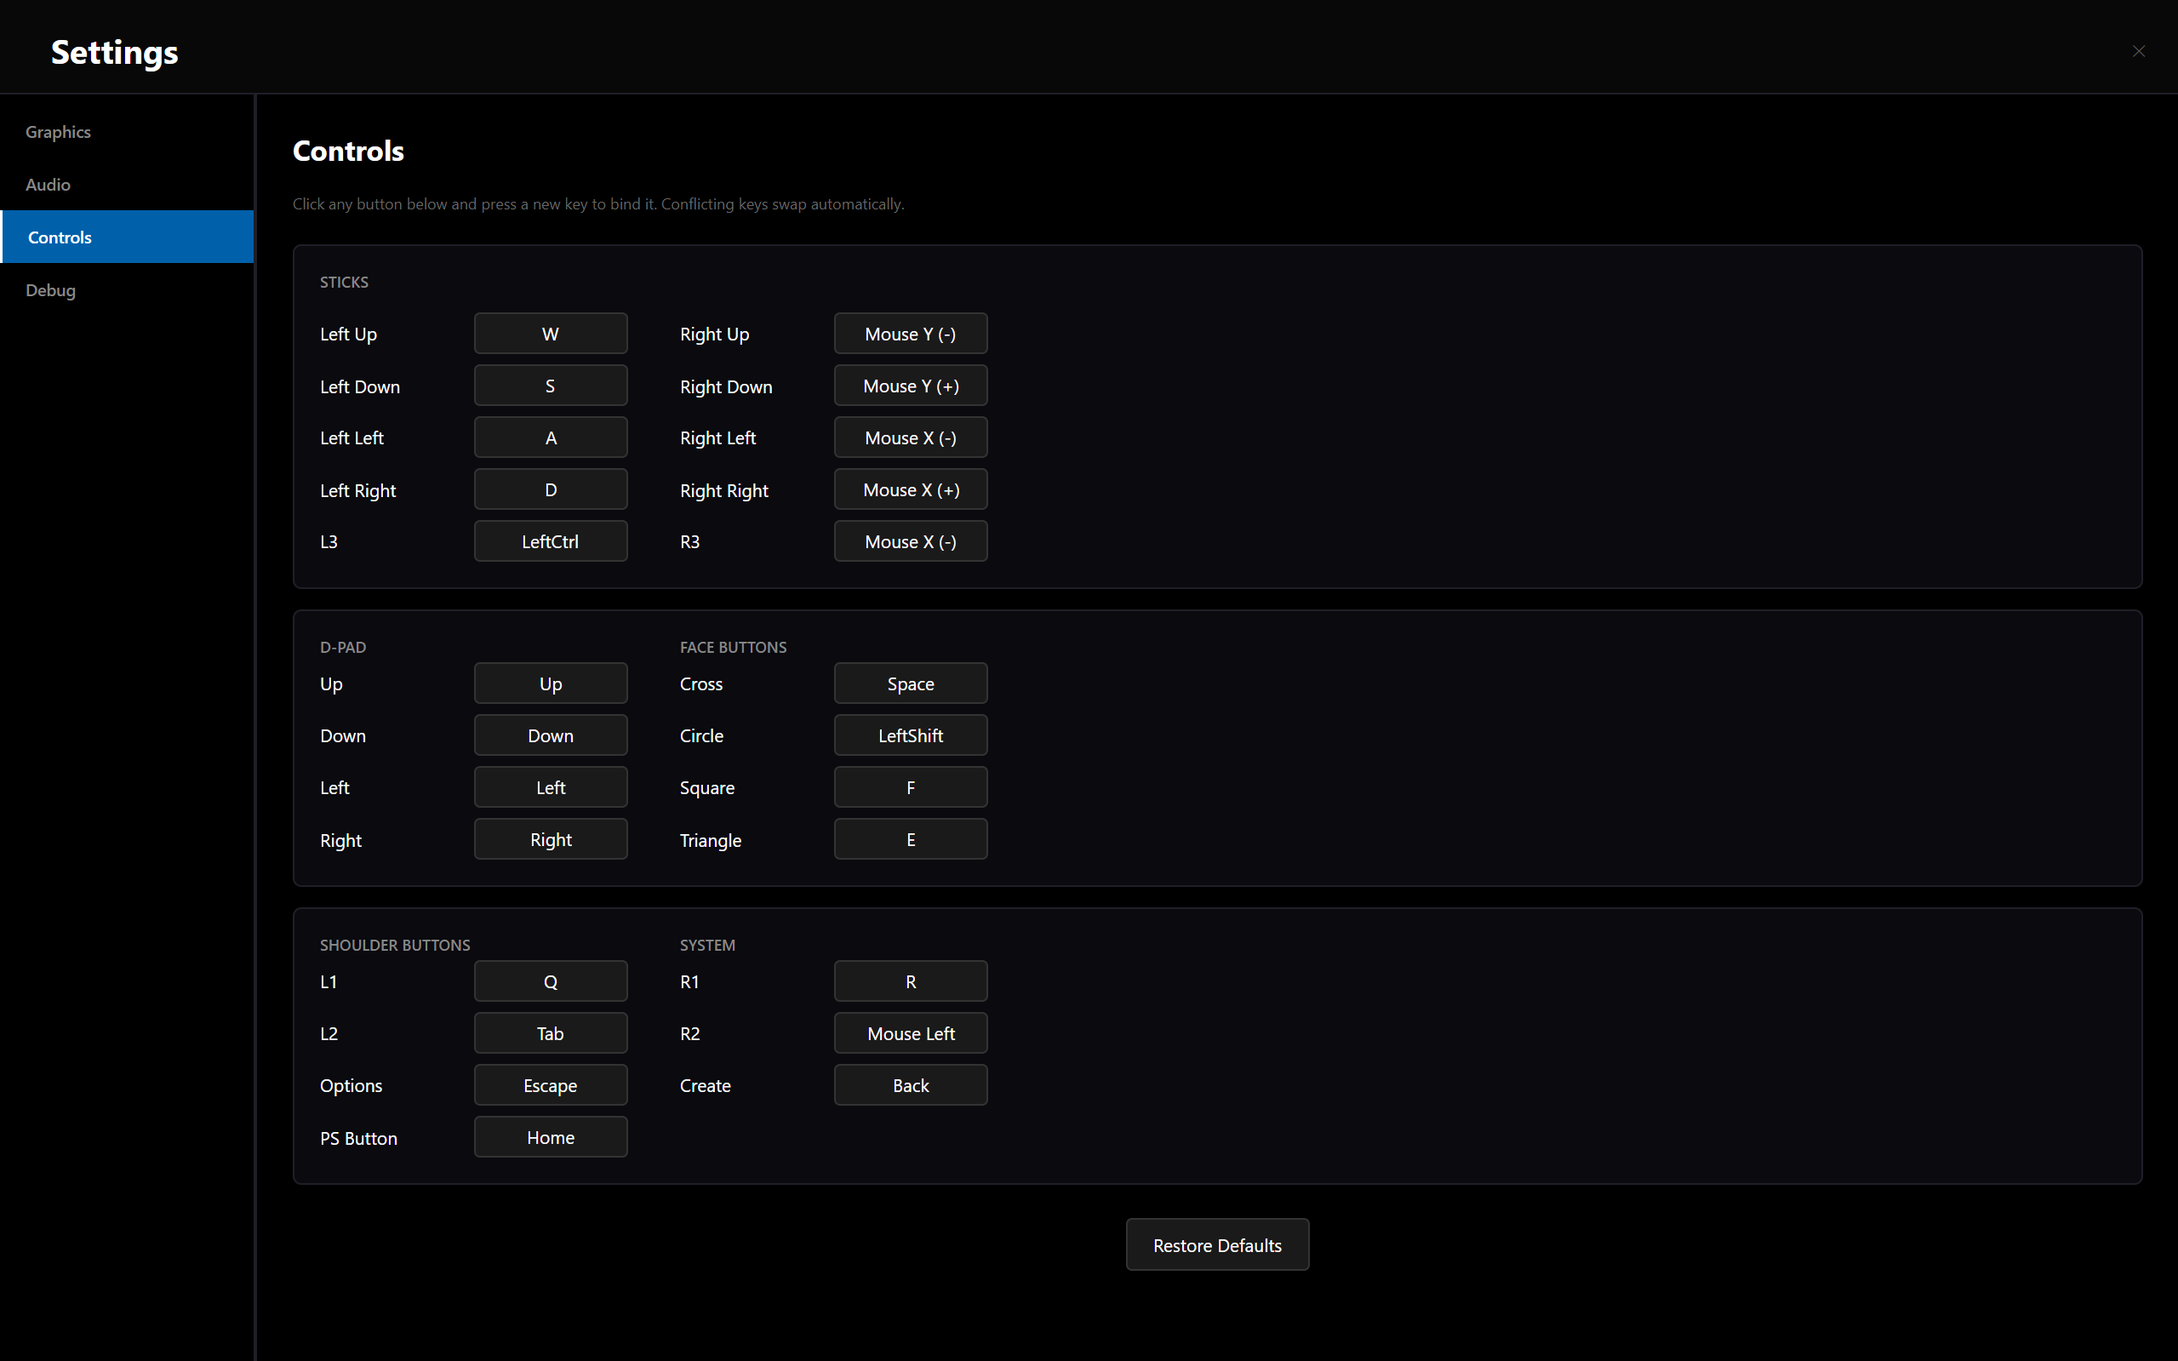
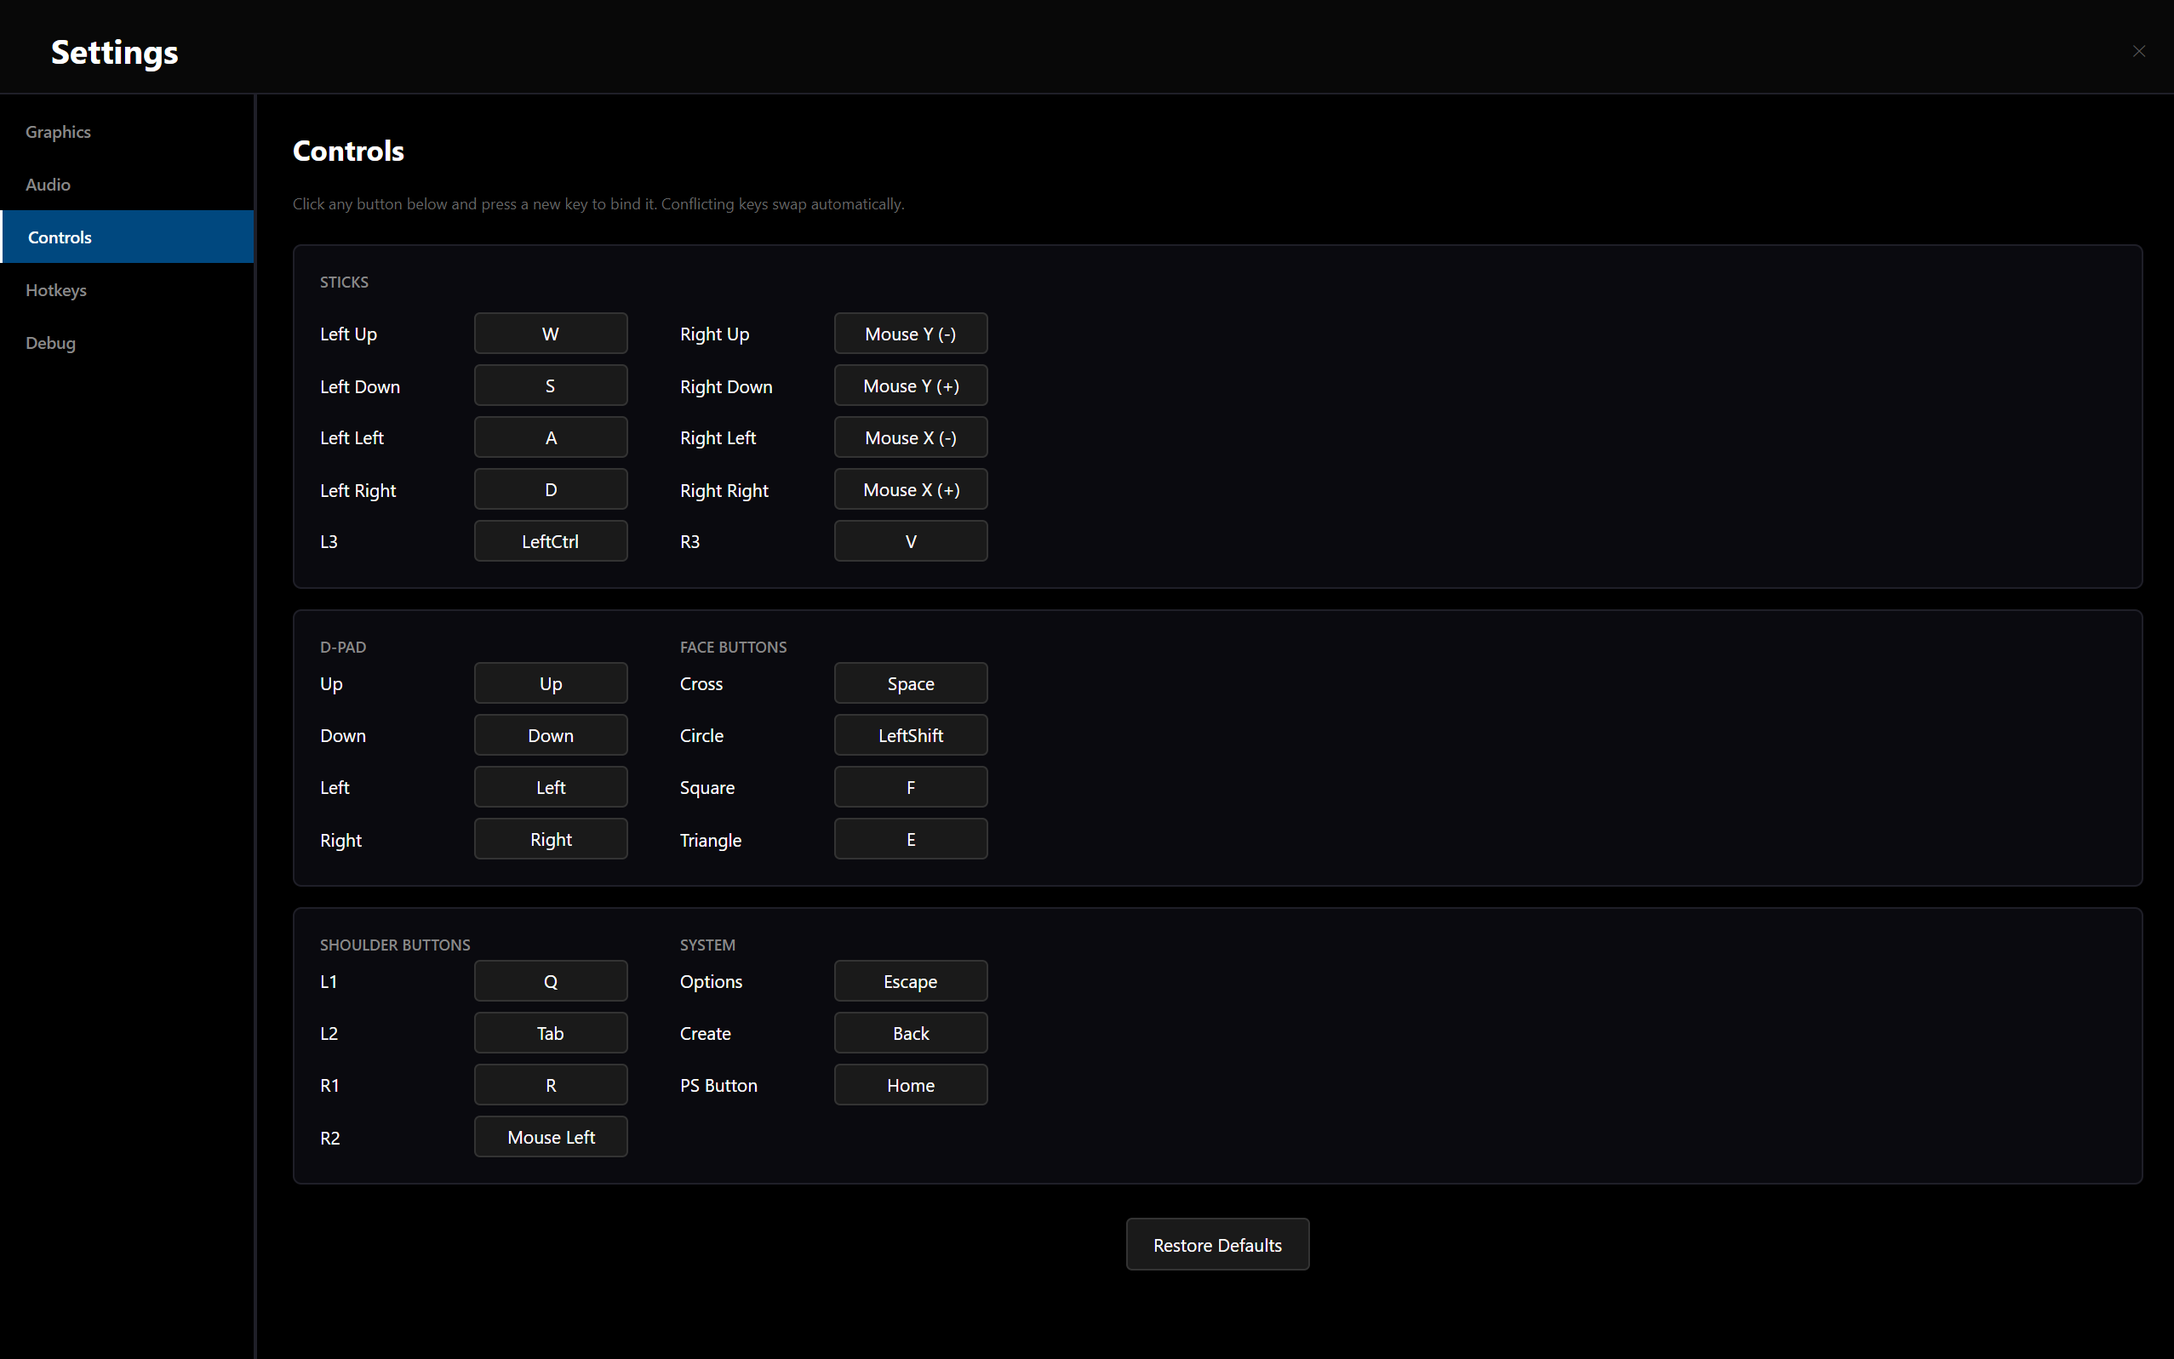
docs: update README with gameplay showcase, system architecture, and compatibility matrix

diff --git a/README.md b/README.md
@@ -1,125 +1,191 @@
 <div align="center">
-  <img src="./assets/images/logo.png" width="28%" alt="craziiEmu Logo"/>
+  <img src="./assets/images/logo.png" width="26%" alt="craziiEmu Logo"/>
   <h1>craziiEmu</h1>
-  <p><strong>An experimental PlayStation 5 compatibility layer and research platform built with C# and .NET.</strong></p>
+  <p><strong>An experimental, Windows-only PlayStation 5 compatibility layer and emulator built with C# and .NET 10.</strong></p>
 
-  ![Platform](https://img.shields.io/badge/Platform-Windows%20x64-blue)
-  ![Framework](https://img.shields.io/badge/.NET-10-purple)
-  ![Graphics](https://img.shields.io/badge/Graphics-Vulkan-orange)
-  ![License](https://img.shields.io/badge/License-GPL--2.0-green)
+  [![Platform](https://img.shields.io/badge/Platform-Windows%20Only%20(x64)-0078D4?style=flat&logo=windows)](https://github.com/craze1pirate/craziiEmu)
+  [![Framework](https://img.shields.io/badge/.NET-10-512BD4?style=flat&logo=dotnet)](https://dotnet.microsoft.com/)
+  [![Graphics](https://img.shields.io/badge/Graphics-Vulkan%201.3-E52E2D?style=flat&logo=vulkan)](https://www.vulkan.org/)
+  [![Release](https://img.shields.io/badge/Release-v0.31--alpha-blue?style=flat)](https://github.com/craze1pirate/craziiEmu/releases)
+  [![License](https://img.shields.io/badge/License-GPL--2.0-22c55e?style=flat)](LICENSE)
 </div>
 
 ---
 
 > [!WARNING]  
-> ### Purely Educational Purpose
-> craziiEmu is created for **purely educational purposes** as a way of actively learning low-level code, systems programming, and emulator development. Compatibility is currently limited, many kernel services remain incomplete, and crashes or missing functionality are expected.
+> ### 🔬 Educational & Research Purpose
+> craziiEmu is developed for **purely educational and research purposes** to explore low-level systems programming, operating system internals, x86-64 execution environments, and Vulkan GPU rendering pipelines. Emulation is highly experimental, many PlayStation 5 kernel services and GPU features are actively being developed, and instability or missing functionality is expected.
 
 > [!IMPORTANT]  
-> ### ⚖ Legal Notice
-> craziiEmu does **not** include or distribute:
-> * PlayStation 5 firmware or Sony proprietary libraries
-> * Cryptographic keys, game content, or copyrighted assets
+> ### ⚖ Legal Disclaimer
+> craziiEmu does **not** distribute or include:
+> * PlayStation 5 system software, BIOS, or proprietary Sony libraries
+> * Cryptographic keys, game dumps, or copyrighted assets
 > 
-> Users are strictly responsible for supplying legally obtained files extracted from hardware they own. **This project does not support piracy.**
+> Users must legally own and dump their own hardware and games. **This project strictly condemns and does not endorse piracy.**
 
 ---
 
 ## Overview
 
-**craziiEmu** is a frontend and compatibility layer project written entirely in C# using modern .NET. 
+**craziiEmu** is an experimental, open-source, **Windows-only** PlayStation 5 compatibility layer and emulator targeting **Windows x64**. Built on modern **.NET 10** and written in C#, the project combines high-performance direct x86-64 host execution with low-level Vulkan hardware acceleration and a sleek, console-inspired Avalonia UI frontend.
 
-The core emulation backend is built entirely upon the excellent open-source foundation of the **[SharpEmu](https://github.com/par274/sharpemu)** project. craziiEmu extends this powerful core architecture with a highly-polished custom desktop frontend built in Avalonia UI, as well as ongoing High-Level Emulation (HLE) and graphics integration improvements.
+> **Note:** craziiEmu is strictly developed for **Windows 10 and Windows 11 (64-bit)**. There is no support for Linux or macOS.
 
-Currently, development and compilation natively target **Windows x64**.
-
----
-
-## ✨ Features
-
-### craziiEmu Frontend
-The craziiEmu user interface is built independently to provide a console-like experience:
-- **Modern, Dark-Themed Dashboard:** A highly responsive, console-inspired scrolling game library.
-- **Dynamic Theming:** Seamlessly maps native background artwork from your game library, adapting the interface on the fly.
-- **Integrated Console:** A real-time, built-in diagnostic logging terminal for trace monitoring.
-- **Configurable Settings:** Manage graphics, audio, debugging, and comprehensive controller configurations all within the UI.
-- **Controller Configuration:** Interactive custom key mapping and conflict resolution (automatically swaps duplicate bindings to prevent input overlap).
-- **Fullscreen Experience:** The emulator natively defaults to fullscreen mode, seamlessly toggled via `F11`.
-
-### craziiEmu Emulation Enhancements
-In addition to the frontend, this project actively improves upon the core emulation:
-- **Game Compatibility:** Progressing boot sequences for retail games, including successfully rendering the Vulkan splash image for titles like *New Super Lucky's Tale*.
-- **Vulkan VideoOut Integration:** Extended the graphics pipeline to properly handle splash image presentation and basic video output synchronization.
-- **HLE Enhancements:** Improved High-Level Emulation for various PlayStation OS services, kernel exports, and thread synchronization primitives to progress further in game boot sequences.
-
-### SharpEmu Core Architecture
-The heavy lifting of emulation is powered by **[SharpEmu](https://github.com/par274/sharpemu)**, which provides:
-- **Direct Execution Backend:** Bypasses software interpretation entirely, executing guest x86-64 code directly on the host CPU for maximum hardware speed.
-- **Advanced Executable Loading:** Detects and parses both standard 64-bit ELF binaries and Sony's compressed SELF (`SCE\0`) containers.
-- **Dynamic Linker:** Parses `PT_DYNAMIC` program headers, recursively loads dependent `.sprx` modules, and resolves complex relocations.
-- **Virtual Memory Manager:** Allocates a massive guest virtual address space utilizing page-based allocation.
-- **Native VEH Trampoline:** Features native x86-64 assembly page-fault handling to safely bridge Windows hardware exceptions.
-- **`libkernel` HLE Stubs:** Houses active implementations for critical PlayStation OS services, including thread management, memory allocation, and timing.
-- **Graphics (Vulkan):** High-performance rendering pathway for swapchain creation, direct video output, and splash image presentation.
+While initially inspired by and incorporating core foundations from the open-source **[SharpEmu](https://github.com/par274/sharpemu)** project, craziiEmu has rapidly progressed beyond a frontend into active, independent systems engineering—introducing significant enhancements across GFX10 GPU texture detiling, multi-render target (MRT) parity, kernel synchronization fast-paths, hardware watchdog diagnostics, and dynamic resolution scaling.
 
 ---
 
-## Interface Preview
+## Compatibility Showcase
+
+craziiEmu is actively progressing commercial game boot sequences and in-game execution:
+
+### *Dead Cells* (PPSA15552) — **In-Game**
+*Dead Cells* boots seamlessly into 2D gameplay with responsive combat, full controller input, and playable 30-40 FPS performance.
 
 <div align="center">
-  <p><em>Main Dashboard (Games Library Tab)</em></p>
-  <img src="./assets/images/dashboard.png" width="85%" alt="craziiEmu Dashboard">
+  <img src="./assets/images/dead-cells.png" width="88%" alt="Dead Cells In-Game on craziiEmu"/>
+  <p><em>Dead Cells running in-game on craziiEmu (30-40 FPS, Vulkan backend)</em></p>
+</div>
+
+*Current Status:* In-game at 30-40 FPS (minor visual passes remaining).
+
+---
+
+### *Dreaming Sarah* — **Playable**
+*Dreaming Sarah* runs with full 2D graphics rendering, responsive player controls, and stable performance.
+
+<div align="center">
+  <img src="./assets/images/dreaming-sarah.png" width="88%" alt="Dreaming Sarah on craziiEmu"/>
+  <p><em>Dreaming Sarah running playable on craziiEmu (Vulkan backend)</em></p>
+</div>
+
+*Current Status:* Fully playable.
+
+---
+
+### *Among Us* — **Intro / Logo (Not Playable Yet)**
+*Among Us* initializes through early boot sequences, mounts game files, and successfully presents developer and title intro logos via Vulkan swapchain presentation.
+
+*Current Status:* **Boots only until logo.** The game stops prior to reaching title menus or online/local lobbies due to pending networking and runtime stubs. It is **not playable yet**, with active research underway to advance its execution state.
+
+---
+
+### *Stray* (PPSA02100) — **Intro / Logo**
+*Stray* executes through Unreal Engine 4's custom memory allocator (`FMallocBinned2`), initializes native spinlocks, and renders early splash sequences.
+
+---
+
+### Compatibility Tier Classification
+
+| Tier | Meaning | Representative Titles |
+| :--- | :--- | :--- |
+| **Playable** | Boots, reaches gameplay, and can be played with stable performance and sound. | *Dreaming Sarah*, *void tRrLM(); //Void Terrarium* |
+| **In-Game** | Reaches gameplay loop, but performance issues or game-breaking glitches may occur. | *Dead Cells* (minor visual passes remaining) |
+| **Intro / Logo** | Boots past bootloader, initializes runtime services, and renders intro/title logos. | *Stray*, *Among Us*, *Naiad*, *Grand Theft Auto V* |
+| **Loads** | Parses ELF/SELF headers, loads modules, but crashes before rendering visual frames. | *Sonic Superstars* |
+
+---
+
+## Engineering & Architecture
+
+craziiEmu integrates several specialized low-level subsystems:
+
+### 1. Vulkan & AGC Graphics Pipeline
+* **GFX10 Texture Swizzling & Detiling:** Native implementations of PS5 GFX10 micro-tile swizzle modes (modes 21, 25, 8, 20) with precise pitch and slice calculation to eliminate texture corruption.
+* **1:1 MRT Parity & Hardware ROP Masks:** Full alignment of Vulkan color attachment indices with guest shader export slots, honoring PS5 hardware write masks (`colorWriteMask = 0`).
+* **Dynamic Resolution Scaling:** Multi-tier viewport scaling supporting:
+  * **Ultra & High:** 4K (3840×2160), 2K (2560×1440), and Native 1080p.
+  * **Low-Spec Scaling:** 720p, **480p**, and **360p** modes for resource-constrained GPUs.
+* **HDR10 Color Pipeline:** Integrated HDR toggle (**Disable**, **Enable**, **Auto**) providing SMPTE ST 2084 (PQ) to scRGB linear color transform passes.
+* **RenderDoc Integration:** One-touch frame capture triggered directly from inside the emulator via the `F10` key.
+
+### 2. Kernel & Thread Synchronization
+* **Direct Host Execution:** Guest x86-64 code executes directly on the Windows host CPU without interpretive virtualization overhead.
+* **Atomic `sceKernelSyncOnAddress`:** Wait32 and Wait64 futex fast-paths with atomic thread awakening, eliminating lockup stalls in multi-threaded game loops.
+* **TLS & Thread Control Block (TCB):** Full guest Thread Local Storage layout mapping matching PS5 userland ABI conventions.
+* **VEH Exception Trampoline:** Intercepts unmapped page accesses and hardware signals on Windows to safeguard guest execution state.
+
+### 3. Hardware Diagnostics & Watchdog
+* **Live Register Capture:** When a guest thread stalls or encounters an unhandled fault, the watchdog snapshots the full CPU context (`RIP`, `RSP`, `RAX`, `RBX`, `RCX`, `RDX`, `RSI`, `RDI`, `R8`–`R15`, and RFLAGS) via Win32 `GetThreadContext`.
+* **Disassembly Diagnostics:** Uses `IcedDecoder` to disassemble x86-64 machine code directly at `RIP`, pinpointing missing syscalls or illegal memory offsets.
+* **Telemetry Overlay (`F3`):** Direct-rasterized HUD reporting framerate, frametimes, host memory usage, and swapchain health.
+* **Standalone Log Terminal (`F4`):** Real-time diagnostic window decoupled from the main render thread for trace debugging.
+
+### 4. Audio & Media Decoders
+* **Lockless 48kHz Audio Engine:** Low-latency circular event pacing to prevent crackle or buffer underruns.
+* **Hardware Video Decoders:** FFmpeg-powered decoding for `videodec2`, `avplayer`, and Bink2 container streams.
+* **Hardware PNG Decoder:** Native `libScePngDec` decompression for fast UI asset loading.
+
+---
+
+## Modern Dashboard Interface
+
+craziiEmu includes a custom, console-grade user interface built using **Avalonia UI**:
+
+<div align="center">
+  <p><em>Console-Style Horizontal Library Dashboard</em></p>
+  <img src="./assets/images/dashboard.png" width="88%" alt="craziiEmu Dashboard">
 
   <br><br>
 
-  <p><em>Advanced Controller Configuration</em></p>
-  <img src="./assets/images/controls.png" width="85%" alt="craziiEmu Controls">
+  <p><em>Advanced Interactive Controller Configuration & Mapping</em></p>
+  <img src="./assets/images/controls.png" width="88%" alt="craziiEmu Controller Configuration">
 </div>
 
+* **Dynamic Artwork Extraction:** Automatically pulls high-resolution game icons and background artwork from game packages.
+* **Conflict-Free Input Remapping:** Intuitive controller setup with automatic key-swapping to eliminate duplicate input bindings.
+* **Dedicated Fullscreen:** True edge-to-edge fullscreen presentation toggled dynamically via `F11`.
+
 ---
 
-## 🛠 Build & Installation
+## System Hotkeys
+| Key | Function |
+| :--- | :--- |
+| `F3` | Toggle On-Screen Telemetry HUD (FPS, frametimes, RAM) |
+| `F4` | Open Standalone Real-Time Diagnostic Log Window |
+| `F10` | Trigger In-App RenderDoc Frame Capture |
+| `F11` | Toggle Fullscreen Mode |
+
+---
+
+## Build & Installation
 
 ### Prerequisites
-* **.NET 10 SDK** (or newer)
-* **Windows x64** (Windows 11 recommended)
-* A Vulkan-compatible GPU
+* **Operating System:** **Windows 10 / 11 (64-bit) exclusively** (Linux and macOS are not supported)
+* **[.NET 10 SDK](https://dotnet.microsoft.com/download/dotnet/10.0)** (or later)
+* A **Vulkan 1.3** compatible GPU (NVIDIA GeForce GTX 10-series / AMD Radeon RX 5000-series or newer recommended)
 
-### Compilation Steps
-1. **Clone the repository:**
-   ```bash
-   git clone https://github.com/craze1pirate/craziiEmu.git
-   cd craziiEmu
-   ```
-2. **Build the solution:**
-   ```bash
-   dotnet build -c Release
-   ```
-3. **Run directly via CLI:**
-   ```bash
-   dotnet run --project src/craziiEmu.UI
-   ```
-4. **Publish as a standalone native executable:**
-   ```bash
-   dotnet publish src/craziiEmu.UI/craziiEmu.UI.csproj -c Release -r win-x64 --self-contained true -p:PublishSingleFile=true
-   ```
+### Building from Source
+```bash
+# 1. Clone the repository
+git clone https://github.com/craze1pirate/craziiEmu.git
+cd craziiEmu
 
----
+# 2. Build the solution in Release mode
+dotnet build -c Release
 
-## Contributing
-Bug reports, pull requests, and reverse engineering research are highly welcome. 
-When opening an issue, please provide your **Build Version**, **OS/Hardware Specs**, the **Game/Executable** tested, and an absolute **Emulator Log Trace** or stack trace.
+# 3. Launch craziiEmu
+dotnet run --project src/craziiEmu.UI
+```
+
+### Standalone Executable Packaging
+To create a clean, single-file release package without separate runtime dependencies:
+```bash
+dotnet publish src/craziiEmu.UI/craziiEmu.UI.csproj -c Release -r win-x64 --self-contained true -p:PublishSingleFile=true
+```
 
 ---
 
-## Acknowledgements
-Special thanks to the following projects for making this possible:
-- **[SharpEmu](https://github.com/par274/sharpemu)** — The core architecture, rendering, and HLE foundation that craziiEmu is built on top of.
-- **[KyTyPS5](https://github.com/KytyPS5/KytyPS5)** —  Helped to understand how certain games work and provided some guidance for NID implementations.
-- **[shadPS4](https://github.com/shadps4-emu/shadPS4)** — An invaluable reference for PlayStation 5 kernel and shared library behaviors.
+## Acknowledgements & Upstream Projects
+
+craziiEmu stands on the shoulders of giants in the open-source emulation and reverse-engineering community:
+* **[SharpEmu](https://github.com/par274/sharpemu)** — The foundational C# PS5 emulation project providing the initial architecture, ELF loading, and direct execution design.
+* **[KytyPS5](https://github.com/KytyPS5/KytyPS5)** — Invaluable reference for NID implementations, kernel structures, and game boot flow analysis.
+* **[shadPS4](https://github.com/shadps4-emu/shadPS4)** — Benchmark reference for modern PlayStation architecture, kernel emulation, and graphics translation.
 
 ---
 
 ## License
-craziiEmu is licensed under the **GNU General Public License v2.0 (GPL-2.0)**. 
-See the [LICENSE](LICENSE) file for more information.
+
+craziiEmu is licensed under the **GNU General Public License v2.0 (GPL-2.0)**. See the [LICENSE](LICENSE) file for complete details.
